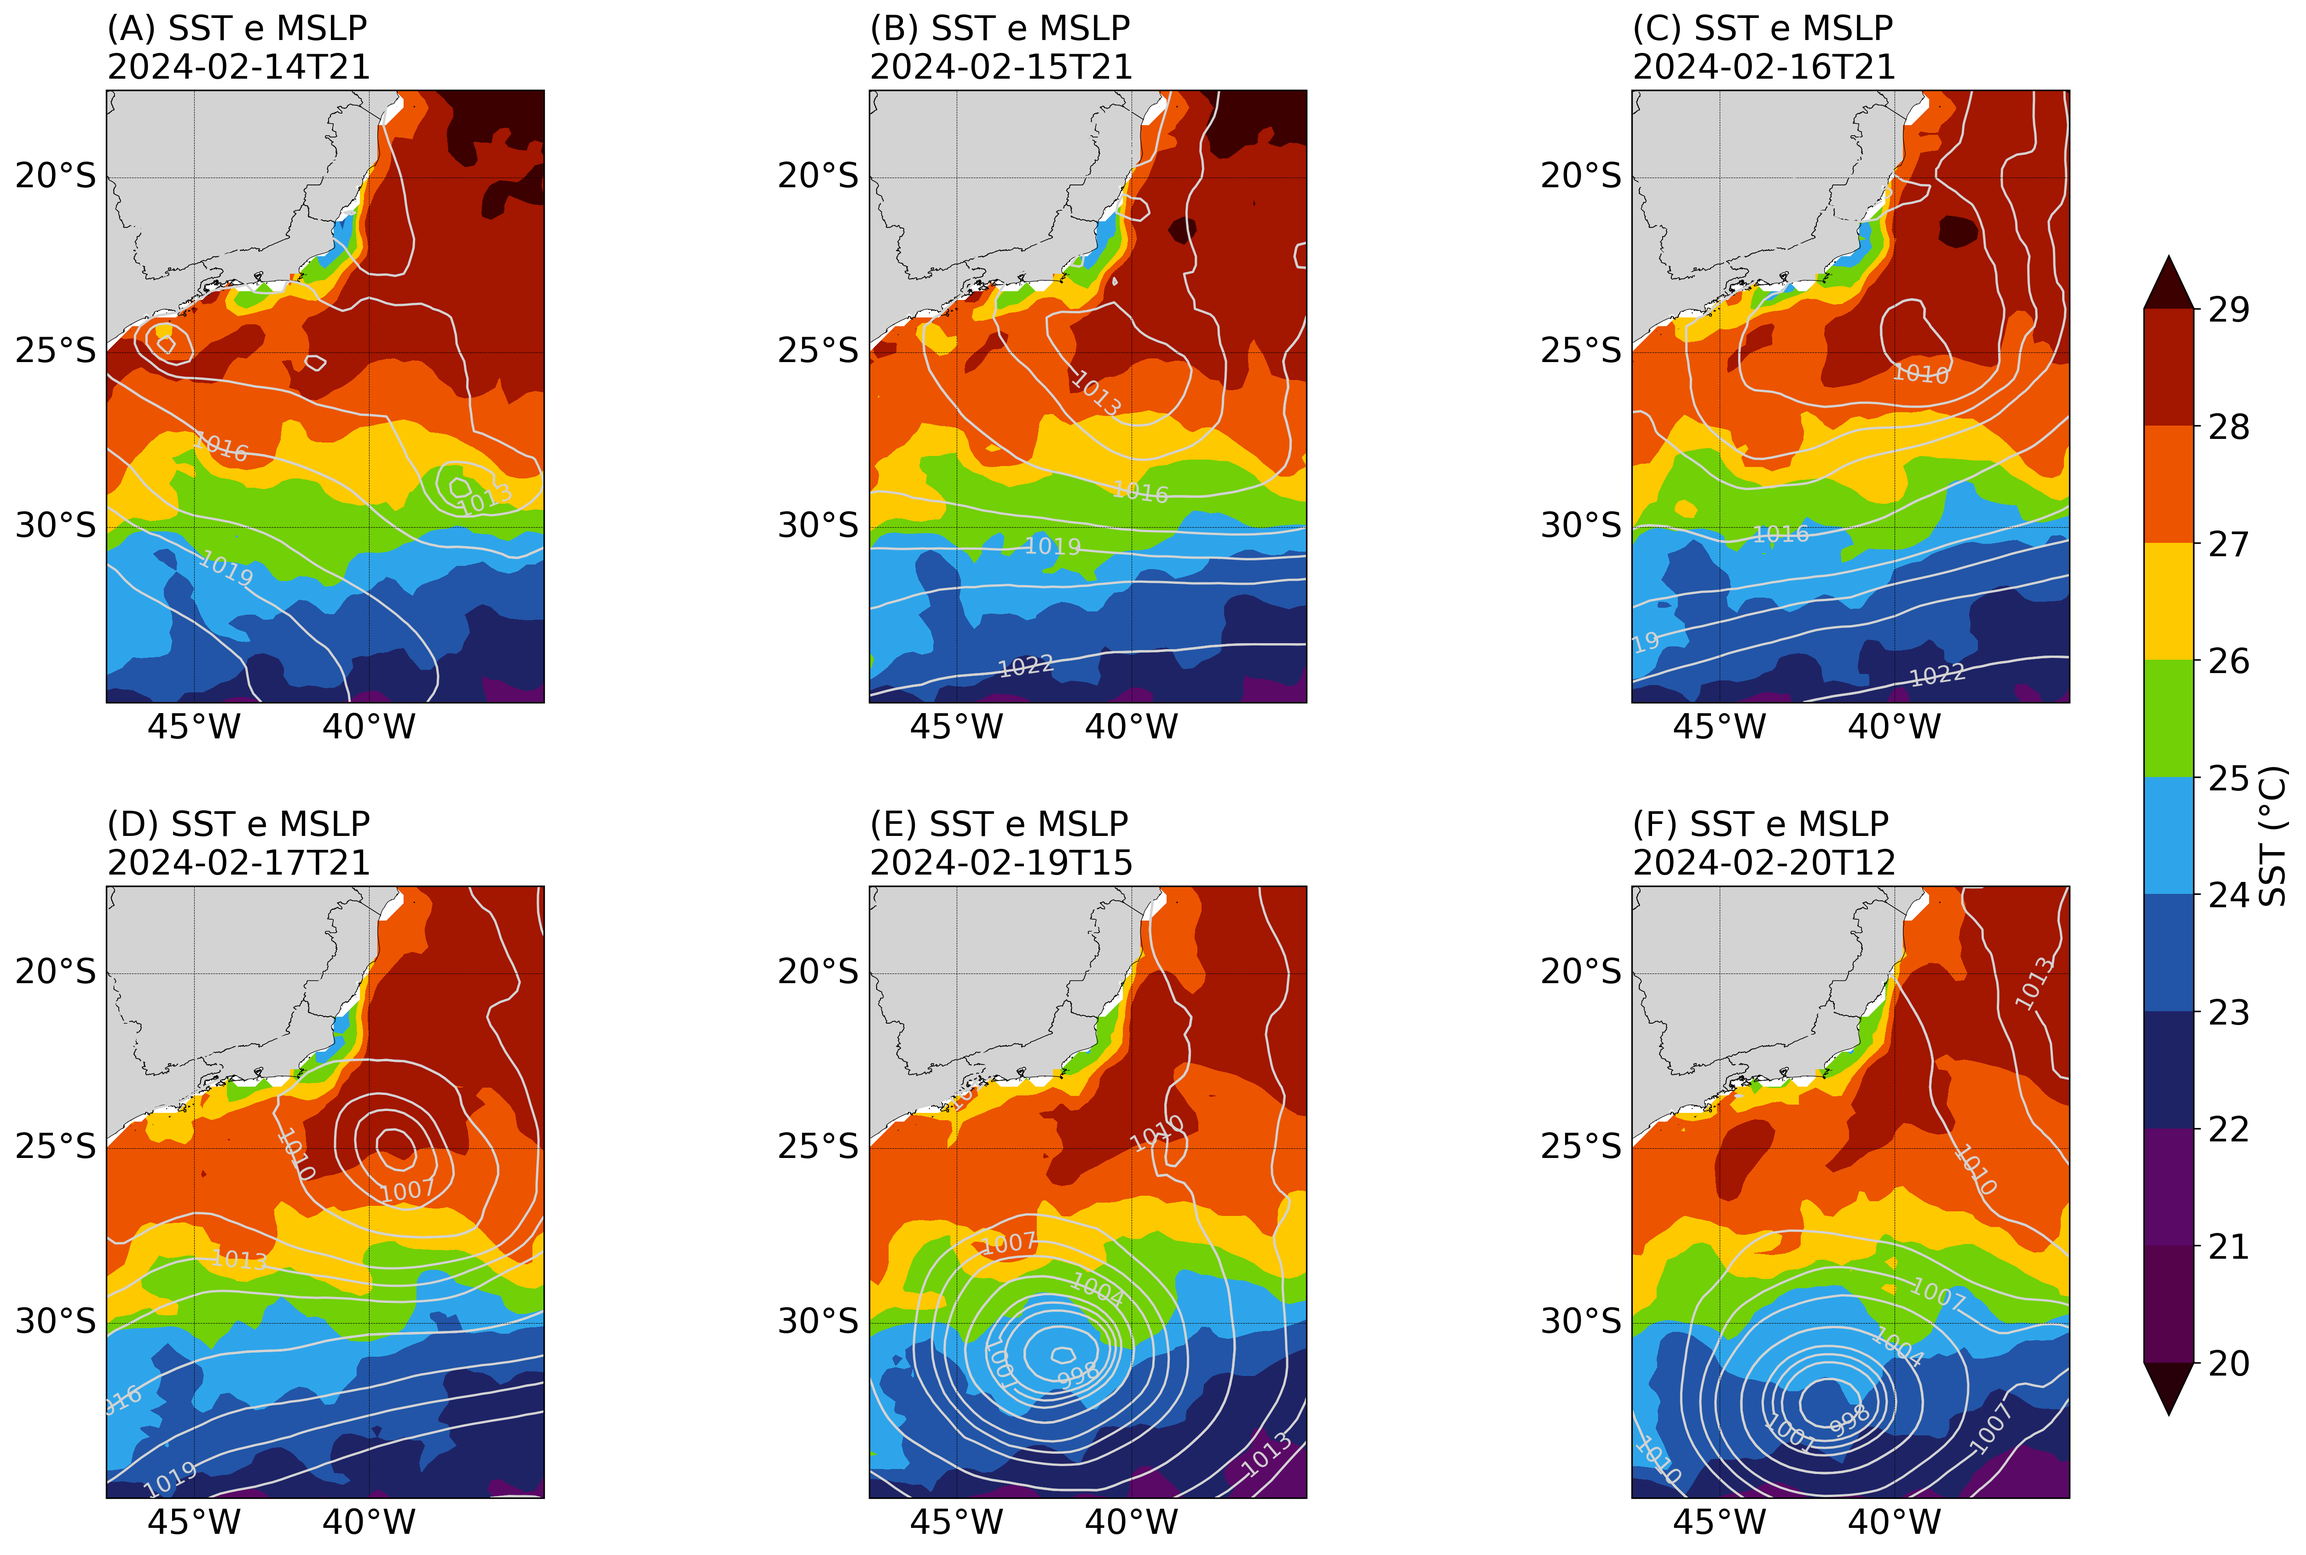
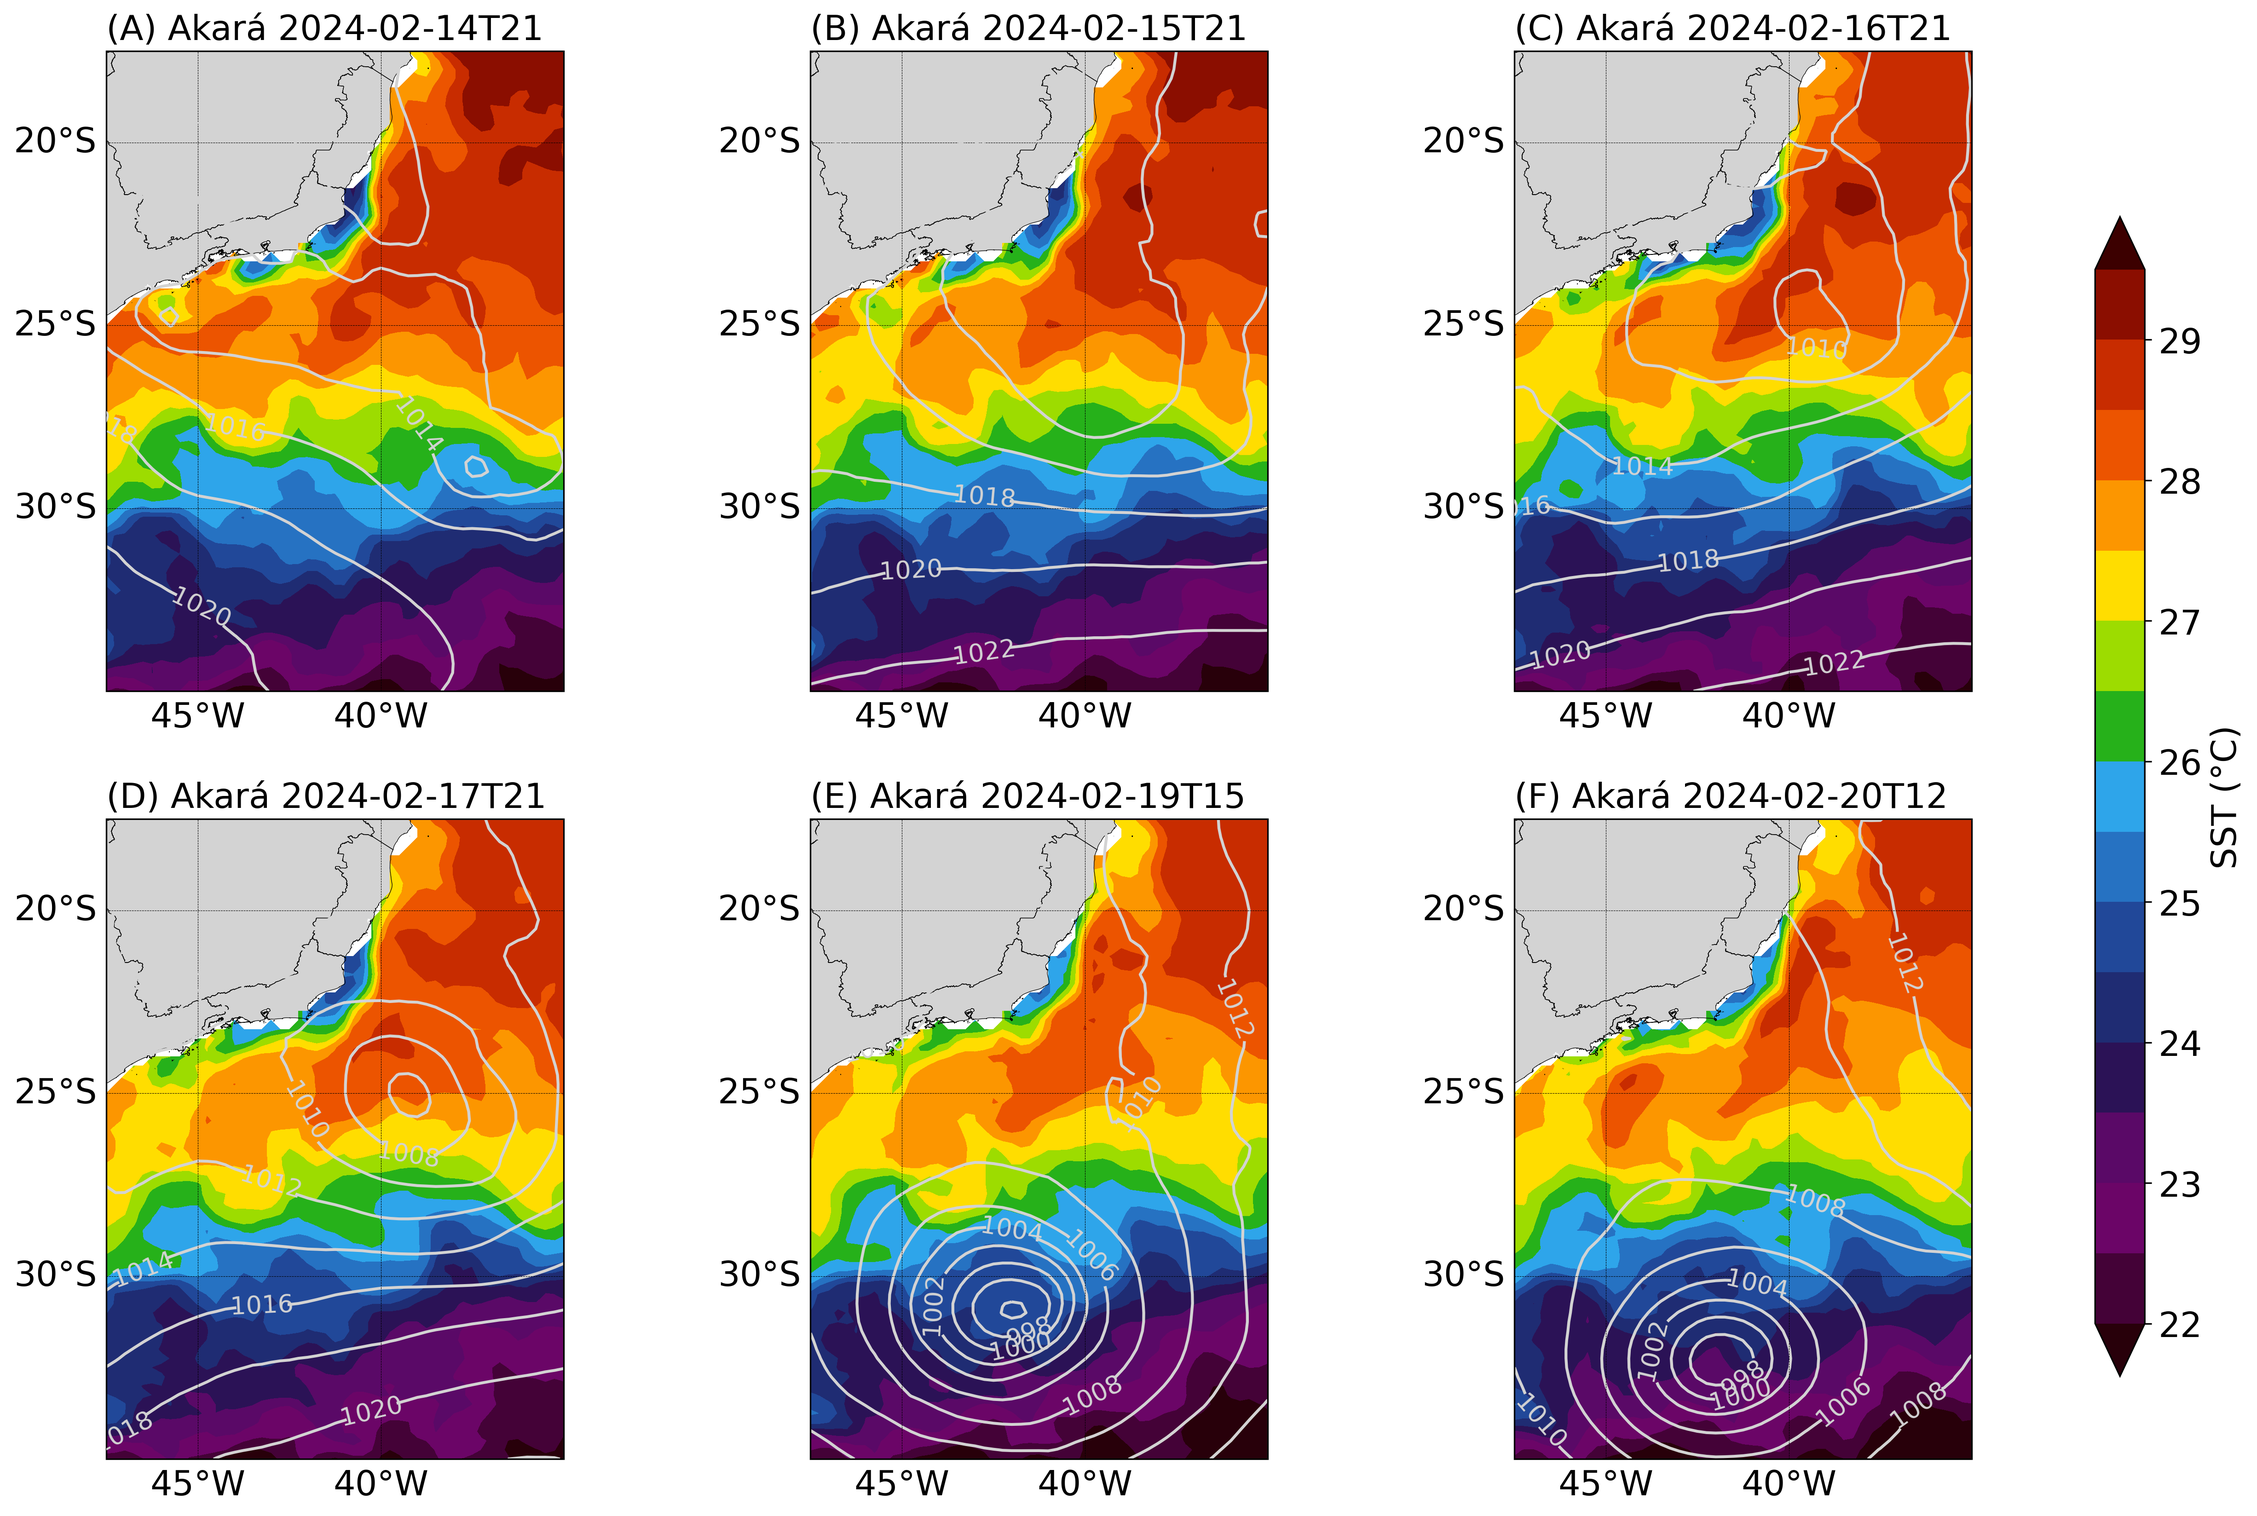
atualização sst combinado

diff --git a/Akara/Charts/scripts/sst_composition.py b/Akara/Charts/scripts/sst_composition.py
@@ -47,15 +47,15 @@ for idx, i in enumerate(lista_indice):
     ax.add_feature(cfeature.BORDERS, linestyle='-', linewidth=0.5)
 
     # Contorno do SST
-    interval = 1
-    img1 = ax.contourf(lon, lat, sst, levels=np.arange(20, 30, interval), cmap=dif_sstt2m, extend='both')
+    interval = 0.5
+    img1 = ax.contourf(lon, lat, sst, levels=np.arange(22, 30, interval), cmap=dif_sstt2m, extend='both')
 
     # Contorno do MSL
     levels_mslp = np.arange(980, 1030, 2)
-    levels2_mslp = np.arange(980, 1030, 3)
-    ct1 = ax.contour(lon, lat, msl, linewidths=1.2, levels=levels_mslp, colors='lightgrey')
-    ct2 = ax.contour(lon, lat, msl, linewidths=1.2, levels=levels2_mslp, colors='lightgrey')
-    ax.clabel(ct2, inline=1, inline_spacing=0, fontsize='12', fmt='%1.0f', colors='lightgrey')
+    levels2_mslp = np.arange(980, 1030, 2)
+    #ct1 = ax.contour(lon, lat, msl, linewidths=1.0, levels=levels_mslp, colors='lightgrey')
+    ct2 = ax.contour(lon, lat, msl, linewidths=1.5, levels=levels2_mslp, colors='lightgrey')
+    ax.clabel(ct2, inline=1, inline_spacing=0, fontsize='13', fmt='%1.0f', colors='lightgrey')
 
     # Adicionar grade e título
     gl = ax.gridlines(crs=ccrs.PlateCarree(), color='black', alpha=1.0, linestyle='--', linewidth=0.25,
@@ -64,14 +64,14 @@ for idx, i in enumerate(lista_indice):
     gl.right_labels = False
     gl.xlabel_style = {'size': 18}
     gl.ylabel_style = {'size': 18}
-    ax.set_title(f'{letters[idx]} SST e MSLP\n{time}', fontsize=18, loc='left')
+    ax.set_title(f'{letters[idx]} Akará {time}', fontsize=18, loc='left')
 
 # Adicionar barra de cores
 cbar_ax = fig.add_axes([0.90, 0.15, 0.02, 0.7])  # Ajuste o valor de 0.92 para 0.88
 cbar = fig.colorbar(img1, cax=cbar_ax, extend='both')
 cbar.set_label('SST (°C)', fontsize=18)
 cbar.ax.tick_params(labelsize=18)
-plt.subplots_adjust(left=0.05, right=0.9, top=0.95, bottom=0.1, wspace=0.3, hspace=0.3)
+plt.subplots_adjust(left=0.05, right=0.9, top=0.95, bottom=0.1, wspace=0.0, hspace=0.2)
 
 
 plt.savefig(f'{DIRFIG}Akara_mslp_sst_multiplot.png', dpi=300, bbox_inches='tight')
